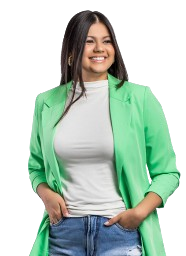
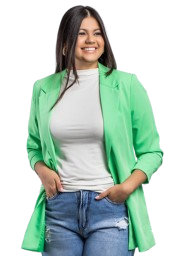
attimfperfil

diff --git a/index.html b/index.html
@@ -102,7 +102,7 @@
                 </div>
 
                 <div class="inicio__handle">
-                    <img src="assets/img/inicio/perfil.png" alt="" class="inicio__img">
+                    <img src="assets/img/inicio/perfil.png" alt="" class="sobre__img">
                 </div>
 
                 <div class="inicio__social">
